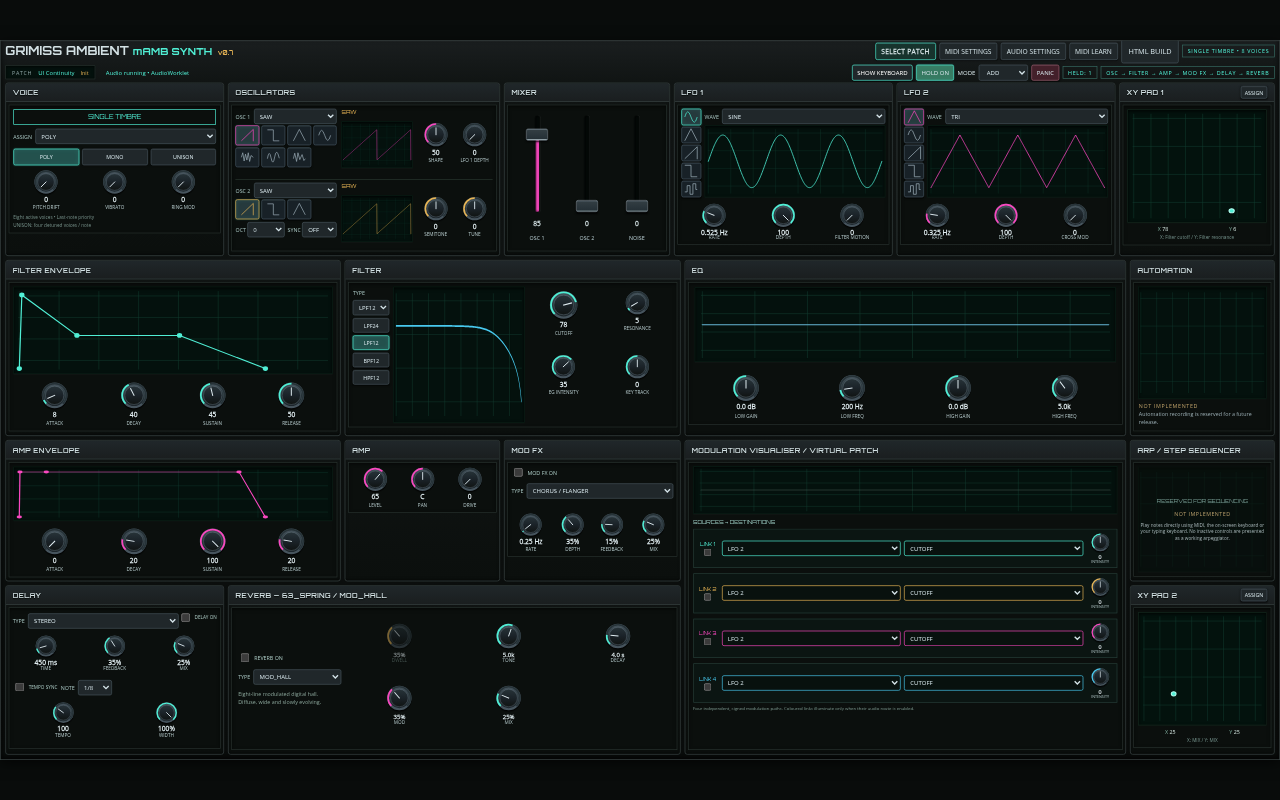
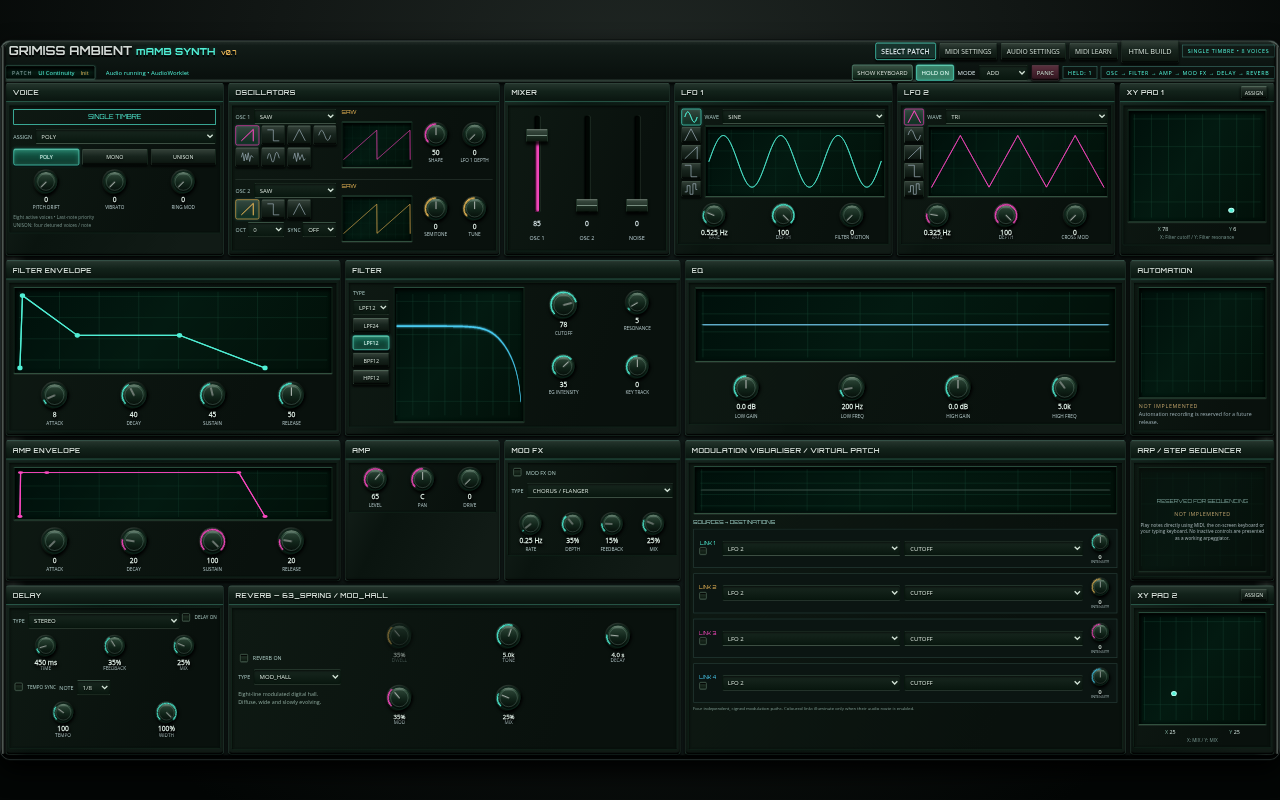
Validate hardware visual pass and publish private comparison build

diff --git a/GRIMISS_mAMB_Synth_v0_3_3_Filter_Fix.html b/GRIMISS_mAMB_Synth_v0_3_3_Filter_Fix.html
@@ -670,9 +670,9 @@ html.fit-screen main input[type=checkbox]{appearance:none;width:12px;height:12px
 html.fit-screen main input[type=checkbox]:checked{background:radial-gradient(#d7fff0,#50efd5 35%,#188f73);border-color:#62ebc7;box-shadow:0 0 5px #50efd577,inset 0 1px 2px #e8fff4}
 html.fit-screen main .fader input{width:9px;background:linear-gradient(to top,var(--accent) 0%,var(--accent) var(--fill),#020704 var(--fill),#020704 100%);border-color:#020704;box-shadow:inset 2px 0 3px #000,1px 0 0 #6c88704d}
 html.fit-screen main .fader input::-webkit-slider-thumb{height:20px;background:linear-gradient(#77847b,#36473c 12%,#27372d 48%,#8aa193 50%,#1a2b20 58%,#0c170f);border-color:#6c8172 #243c2c #040b06;box-shadow:0 4px 4px #000c,inset 0 1px 0 #c2d0c533;border-radius:2px}
-html.fit-screen main>.performance-panel{background:linear-gradient(#26382e,#07100a 12%,#0e1d13 85%,#020704);border-top:3px solid #637e6c;box-shadow:inset 0 3px 3px #000,0 -3px 0 #050a06,0 -4px 0 #405b4b}
+html.fit-screen main>.performance-panel{background:linear-gradient(#26382e,#07100a 12%,#0e1d13 85%,#020704);border-top:1px solid #637e6c;box-shadow:inset 0 3px 3px #000,0 -3px 0 #050a06,0 -4px 0 #405b4b}
 html.fit-screen main>.performance-panel h2{background:linear-gradient(#192b20,#0b1a11);color:#d7e7da;border-bottom-color:#142a1a}
-html.fit-screen main>.performance-panel>.inner{background:#030805;border:2px solid #172e1d;border-bottom-color:#526b56;box-shadow:inset 0 4px 8px #000,0 1px 0 #000}
+html.fit-screen main>.performance-panel>.inner{background:#030805;border:1px solid #172e1d;border-bottom-color:#526b56;box-shadow:inset 0 4px 8px #000,0 1px 0 #000}
 html.fit-screen main>.performance-panel .white{background:linear-gradient(90deg,#9da99c 0,#d6ddcf 3%,#f0f1e7 9%,#eef0e5 85%,#c4cdbf 96%,#82927f 100%);border:1px solid #465343;border-bottom:5px solid #9da891;border-radius:1px 1px 4px 4px;box-shadow:inset 0 6px 6px #0005,inset 0 -2px 1px #eef6e3,1px 1px 2px #000;position:relative;color:#5a6757}
 html.fit-screen main>.performance-panel .black{background:linear-gradient(90deg,#030704,#1e2922 12%,#0d1710 24%,#101c13 74%,#38463a 87%,#020603);border:1px solid #030704;border-top:2px solid #5c685d;border-bottom:5px solid #020503;border-radius:0 0 3px 3px;box-shadow:2px 5px 3px #000c,inset 0 -3px 0 #39463b;color:#8ea092}
 html.fit-screen main>.performance-panel .white.on{background:linear-gradient(90deg,#1b7964,#8bffe2 12%,#50efd5 85%,#258b70);border-bottom-color:#1d775b;box-shadow:inset 0 4px 7px #03201499,0 0 7px #50efd533}

diff --git a/dist/GRIMISS_mAMB_v0_7.html b/dist/GRIMISS_mAMB_v0_7.html
@@ -670,9 +670,9 @@ html.fit-screen main input[type=checkbox]{appearance:none;width:12px;height:12px
 html.fit-screen main input[type=checkbox]:checked{background:radial-gradient(#d7fff0,#50efd5 35%,#188f73);border-color:#62ebc7;box-shadow:0 0 5px #50efd577,inset 0 1px 2px #e8fff4}
 html.fit-screen main .fader input{width:9px;background:linear-gradient(to top,var(--accent) 0%,var(--accent) var(--fill),#020704 var(--fill),#020704 100%);border-color:#020704;box-shadow:inset 2px 0 3px #000,1px 0 0 #6c88704d}
 html.fit-screen main .fader input::-webkit-slider-thumb{height:20px;background:linear-gradient(#77847b,#36473c 12%,#27372d 48%,#8aa193 50%,#1a2b20 58%,#0c170f);border-color:#6c8172 #243c2c #040b06;box-shadow:0 4px 4px #000c,inset 0 1px 0 #c2d0c533;border-radius:2px}
-html.fit-screen main>.performance-panel{background:linear-gradient(#26382e,#07100a 12%,#0e1d13 85%,#020704);border-top:3px solid #637e6c;box-shadow:inset 0 3px 3px #000,0 -3px 0 #050a06,0 -4px 0 #405b4b}
+html.fit-screen main>.performance-panel{background:linear-gradient(#26382e,#07100a 12%,#0e1d13 85%,#020704);border-top:1px solid #637e6c;box-shadow:inset 0 3px 3px #000,0 -3px 0 #050a06,0 -4px 0 #405b4b}
 html.fit-screen main>.performance-panel h2{background:linear-gradient(#192b20,#0b1a11);color:#d7e7da;border-bottom-color:#142a1a}
-html.fit-screen main>.performance-panel>.inner{background:#030805;border:2px solid #172e1d;border-bottom-color:#526b56;box-shadow:inset 0 4px 8px #000,0 1px 0 #000}
+html.fit-screen main>.performance-panel>.inner{background:#030805;border:1px solid #172e1d;border-bottom-color:#526b56;box-shadow:inset 0 4px 8px #000,0 1px 0 #000}
 html.fit-screen main>.performance-panel .white{background:linear-gradient(90deg,#9da99c 0,#d6ddcf 3%,#f0f1e7 9%,#eef0e5 85%,#c4cdbf 96%,#82927f 100%);border:1px solid #465343;border-bottom:5px solid #9da891;border-radius:1px 1px 4px 4px;box-shadow:inset 0 6px 6px #0005,inset 0 -2px 1px #eef6e3,1px 1px 2px #000;position:relative;color:#5a6757}
 html.fit-screen main>.performance-panel .black{background:linear-gradient(90deg,#030704,#1e2922 12%,#0d1710 24%,#101c13 74%,#38463a 87%,#020603);border:1px solid #030704;border-top:2px solid #5c685d;border-bottom:5px solid #020503;border-radius:0 0 3px 3px;box-shadow:2px 5px 3px #000c,inset 0 -3px 0 #39463b;color:#8ea092}
 html.fit-screen main>.performance-panel .white.on{background:linear-gradient(90deg,#1b7964,#8bffe2 12%,#50efd5 85%,#258b70);border-bottom-color:#1d775b;box-shadow:inset 0 4px 7px #03201499,0 0 7px #50efd533}

diff --git a/src/hardware.css b/src/hardware.css
@@ -32,9 +32,9 @@ html.fit-screen main input[type=checkbox]{appearance:none;width:12px;height:12px
 html.fit-screen main input[type=checkbox]:checked{background:radial-gradient(#d7fff0,#50efd5 35%,#188f73);border-color:#62ebc7;box-shadow:0 0 5px #50efd577,inset 0 1px 2px #e8fff4}
 html.fit-screen main .fader input{width:9px;background:linear-gradient(to top,var(--accent) 0%,var(--accent) var(--fill),#020704 var(--fill),#020704 100%);border-color:#020704;box-shadow:inset 2px 0 3px #000,1px 0 0 #6c88704d}
 html.fit-screen main .fader input::-webkit-slider-thumb{height:20px;background:linear-gradient(#77847b,#36473c 12%,#27372d 48%,#8aa193 50%,#1a2b20 58%,#0c170f);border-color:#6c8172 #243c2c #040b06;box-shadow:0 4px 4px #000c,inset 0 1px 0 #c2d0c533;border-radius:2px}
-html.fit-screen main>.performance-panel{background:linear-gradient(#26382e,#07100a 12%,#0e1d13 85%,#020704);border-top:3px solid #637e6c;box-shadow:inset 0 3px 3px #000,0 -3px 0 #050a06,0 -4px 0 #405b4b}
+html.fit-screen main>.performance-panel{background:linear-gradient(#26382e,#07100a 12%,#0e1d13 85%,#020704);border-top:1px solid #637e6c;box-shadow:inset 0 3px 3px #000,0 -3px 0 #050a06,0 -4px 0 #405b4b}
 html.fit-screen main>.performance-panel h2{background:linear-gradient(#192b20,#0b1a11);color:#d7e7da;border-bottom-color:#142a1a}
-html.fit-screen main>.performance-panel>.inner{background:#030805;border:2px solid #172e1d;border-bottom-color:#526b56;box-shadow:inset 0 4px 8px #000,0 1px 0 #000}
+html.fit-screen main>.performance-panel>.inner{background:#030805;border:1px solid #172e1d;border-bottom-color:#526b56;box-shadow:inset 0 4px 8px #000,0 1px 0 #000}
 html.fit-screen main>.performance-panel .white{background:linear-gradient(90deg,#9da99c 0,#d6ddcf 3%,#f0f1e7 9%,#eef0e5 85%,#c4cdbf 96%,#82927f 100%);border:1px solid #465343;border-bottom:5px solid #9da891;border-radius:1px 1px 4px 4px;box-shadow:inset 0 6px 6px #0005,inset 0 -2px 1px #eef6e3,1px 1px 2px #000;position:relative;color:#5a6757}
 html.fit-screen main>.performance-panel .black{background:linear-gradient(90deg,#030704,#1e2922 12%,#0d1710 24%,#101c13 74%,#38463a 87%,#020603);border:1px solid #030704;border-top:2px solid #5c685d;border-bottom:5px solid #020503;border-radius:0 0 3px 3px;box-shadow:2px 5px 3px #000c,inset 0 -3px 0 #39463b;color:#8ea092}
 html.fit-screen main>.performance-panel .white.on{background:linear-gradient(90deg,#1b7964,#8bffe2 12%,#50efd5 85%,#258b70);border-bottom-color:#1d775b;box-shadow:inset 0 4px 7px #03201499,0 0 7px #50efd533}

diff --git a/reports/hardware-comparison.html b/reports/hardware-comparison.html
@@ -1,0 +1,1 @@
+<!doctype html><html lang="en"><meta charset="utf-8"><meta name="viewport" content="width=device-width,initial-scale=1"><title>GRIMISS mAMB hardware comparison</title><style>body{margin:0;background:#080e0b;color:#d6e4dc;font:16px system-ui}main{max-width:1800px;margin:auto;padding:24px}h1,a{color:#50efd5}p{max-width:1000px;line-height:1.6}section{margin:30px 0}img{width:100%;border:1px solid #435d4d;border-radius:8px}.pair{display:grid;grid-template-columns:1fr 1fr;gap:20px}h2{font-size:17px}@media(max-width:900px){.pair{grid-template-columns:1fr}}</style><main><h1>GRIMISS mAMB — hardware visual pass</h1><p>The supplied hardware mockup guided cabinet edges, recessed metal panels and screens, shaded control bodies, illuminated states and piano-key finishes. The working v0.7 build remains the functional authority: all 14 functional scripts and 156 control tags are unchanged.</p><div class="pair"><section><h2>Verified v0.7 baseline</h2><a href="hardware-before.png"><img src="hardware-before.png" alt="Baseline with keyboard visible"></a></section><section><h2>Hardware finish — same patch and viewport</h2><a href="hardware-visible.png"><img src="hardware-visible.png" alt="Hardware finish with keyboard visible"></a></section></div><section><h2>Expanded editor — keyboard hidden</h2><a href="hardware-hidden.png"><img src="hardware-hidden.png" alt="Expanded editor with keyboard hidden"></a></section><p>The complete displays, original note range and controls are retained. The material treatment follows the mockup while preserving the denser working layout. Additional wheels, voice counts and unsupported functions shown in the mockup were not introduced as decorative controls. ARP and automation remain labelled unimplemented. No physical MIDI hardware testing is claimed.</p><p><a href="../index.html">Play synthesizer</a> · <a href="../GRIMISS_mAMB_v0_7.html" download>Download HTML</a></p></main></html>

diff --git a/HARDWARE_VISUAL_PASS.md b/HARDWARE_VISUAL_PASS.md
@@ -1,0 +1,21 @@
+# Hardware-realism visual pass
+
+Continued on `codex/controller-workflow-v0.7` from verified checkpoint `2531bed10f8a0d943faf59e949a93a938c5f3cf0`. Image1 is the material/appearance target; Image2 and the existing code remain the functional authority.
+
+| Supplied mockup direction | Implemented treatment |
+| --- | --- |
+| Unified physical cabinet | Rounded dark-metal shell, bevelled end edges, header extrusion and grounded shadows |
+| Recessed sections | Shared panel rims, inset control wells and restrained highlights |
+| Physical rotary controls | Shared shaded SVG bodies, reflective rim, bright pointer and original teal/magenta/amber accents |
+| Faders and switches | Recessed tracks with retained coloured value fills, moulded caps, tactile button faces and truthful illuminated selection/on states |
+| Electronic displays | Recessed bezels, dark green glass, retained grid/trace colours and responsive data |
+| Piano keyboard | Shaded ivory faces, dark raised keys, front lips, contact shadows and retained active-note indication |
+| Typography | Existing embedded licensed fonts retained, engraved-style contrast and consistent headings |
+
+The result follows the mockup's cabinet and material treatment while preserving the denser working layout and all controls. It is not a pixel-identical reconstruction: the mockup shows additional wheels, a12-voice label and unsupported features. These were not substituted for the actual single-timbre/eight-voice architecture. The original playable C3–C5 range, all displays, independent XY pads, real draggable envelopes and expanded keyboard-hidden mode remain.
+
+`src/hardware.css` is the reusable visual layer; build.cjs embeds it into the same standalone HTML. Only the existing SVG paint gradients also changed. All14 functional script bodies and156 input/select/button tags—including identifiers, ranges and defaults—are byte-identical to the baseline. No audio/MIDI/patch/ownership/layout logic changed.
+
+Visual QA uses matched baseline/current1920×1080 screenshots plus both keyboard states at1920×1080,1600×900 and1280×800. Existing regressions cover Worklet/fallback audio, polyphony, oscillator/filter/envelope/effects/routes, XY/patch/MIDI/HOLD, touch simulation and keyboard continuity. A decorative border initially overflowed the keyboard panel; restoring its original dimensions fixed it. A waveform assertion now waits for the rendered selected state instead of an arbitrary35ms delay.
+
+See reports/hardware-comparison.html and tests/hardware-results.json. Real KeyLab25/Windows/tablet tests are unverified. ARP/automation stay visibly unimplemented. Actual live-host QA may remain blocked by the execution environment's destination policy; deployment success and local tests are reported separately in HOSTING.md.

diff --git a/DEVELOPMENT_LOG.md b/DEVELOPMENT_LOG.md
@@ -79,3 +79,11 @@ Integrated the final single-screen1920×1080 logical layout, exact existing pale
 Validation and publication evidence follow in TEST_RESULTS.md and HOSTING.md. Physical hardware/Windows/tablet performance and actual live-domain browser access are reported separately from software and native deployment checks.
 
 Final v0.7 regression: npm run test:all exited0 after correcting an ADSR test race (SVG redraw between locator acquisition and bounding-box measurement; now sampled atomically). Both browser audio backends, all six layouts, emulated touch,25registry groups,11workflow groups,90factory renders and mocked-device cancellation pass. Native private deployment succeeded; actual live-browser navigation remains proxy-blocked. Exact publication IDs/hash are in HOSTING.md. GitHub main remains433c2ab; v0.4 a0131ea remains remotely available.
+
+## 2026-11-03 — hardware-realism visual pass
+
+Continued from2531bed on the existing development branch. Read the new brief and compared Image1's physical construction with Image2's authoritative functional scope. Added shared src/hardware.css and revised the existing SVG paint gradients: dark-metal cabinet/end bevels, inset panels and screen glass, physical rotary bodies/pointers, recessed coloured fader tracks/caps, tactile/illuminated switches and shaded piano-key faces/front edges. Existing palette, labels, displays, control dimensions and bindings are retained. No mockup-only controls,12voice claim or DSP redesign was introduced.
+
+Added tests/fixtures/v0.7.html and exact functional parity checks:14inline script bodies and156input/select/button tags remain identical, including defaults/ranges. Browser tests now wait for the actual selected waveform state rather than35ms; a decorative keyboard border overflow was caught and corrected by restoring its original border dimensions. Six layout modes, both backends, emulated touch and11workflow groups pass on the correction. HARDWARE_VISUAL_PASS.md and reports/hardware-comparison.html describe appearance and deliberate functional differences from the mockup.
+
+Hardware pass final verification: complete npm run test:all exited0, including exact parity guard. Native private deployment appgdep_6aea3cc38a8081919e0376a0a5d54540 succeeded from verified Site-source76882c14f967ce62d7141145797322b645a7e8c3. Actual authorised browser navigation was retried and remains blocked by the environment proxy before reaching the page. Audience, GitHub visibility and main were not changed.

diff --git a/TEST_RESULTS.md b/TEST_RESULTS.md
@@ -1,3 +1,17 @@
+# Hardware-realism pass validation — 2026-11-03
+
+**Complete `npm run test:all`: PASS, exit0**, after correcting decorative keyboard-border overflow. All14 functional scripts and156 control tags are identical to the verified2531bed baseline; DSP/MIDI/patch/layout/ownership logic is unchanged. tests/hardware-results.json records this guard.
+
+Both audio backends pass; keyboard visible/hidden layouts fit1920×1080,1600×900 and1280×800 without main-page scrolling. All seven OSC1 choices, displays, graph enlargement, retained context/notes/HOLD and emulated touch pass. Eleven workflow groups cover actual envelopes, wheel/fine adjustment, patch/XY persistence and MIDI Learn. All25registry groups,90factory numerical renders, mocked device/capture cancellation checks and all prior DSP/effects/measurement/stability tests pass. Console errors: none.
+
+The first visual run caught an overflow from thicker decorative keyboard borders; original dimensions were restored, retaining depth through shadows. A pre-existing fixed35ms waveform redraw assertion was replaced by waiting for rendered selected state. No functional script was edited to resolve either issue.
+
+Matched baseline/current screenshots and comparison: reports/hardware-{before,visible,hidden}.png and reports/hardware-comparison.html. Detailed mockup comparison: HARDWARE_VISUAL_PASS.md. Current HTML SHA256: a6ae1741e7ea650269b0cbfda42cafbf680b37f9dfb1b2eb5cab5f4cca80c84d.
+
+Private publication succeeded. Actual live-domain browser navigation was retried after publication and remains proxy-blocked before reaching the page. Physical KeyLab25/Windows/tablet operation is unverified; ARP/automation remain unimplemented. These limits are separate from the passing local software checks.
+
+## Previous v0.7 checkpoint results
+
 # v0.7 validation — 2026-11-03
 
 Build: `npm run build`; canonical historical HTML is byte-identical to `dist/GRIMISS_mAMB_v0_7.html`. Manifest records the SHA256. Baseline v0.6 was revalidated before changes; retained reports are in work/v07 when workspace retained. src/synth.js and src/effects.js are unchanged from v0.6.

diff --git a/CONTINUE_CODEX.md b/CONTINUE_CODEX.md
@@ -6,6 +6,8 @@ Run `npm run build` and `npm run test:all` in a Chromium-capable environment. Th
 
 Architecture: one timbre/eight active voices, bounded steal tails, source ownership, two independent LFOs/four routes and one shared stereo effects chain. Preserve src/synth.js and effects algorithms unless a measured change is justified. Optional input monitoring is mixed before shared effects, defaults off/gain zero and stops on PANIC. AudioContext resumes synchronously on trusted first key/pointer gesture before asynchronous Worklet setup; never promise browser-policy-free autoplay or add a mandatory Start Audio button.
 
+Visual layer: src/hardware.css is embedded by build.cjs; src/interface.html supplies shared SVG paint gradients. tests/hardware.cjs compares all14 functional script bodies and156 control tags exactly with tests/fixtures/v0.7.html (2531bed). Do not change DSP to revise appearance. For a later explicitly functional release, deliberately update the parity baseline/guard after validating the authorised behavior change rather than deleting coverage. HARDWARE_VISUAL_PASS.md records the approved mockup comparison and retained functional scope.
+
 UI: 1920×1080 logical hardware panel, fit to viewport, body-sibling dialogs. Keyboard is visible by default; persisted hide state really grows graphs/controls without DSP/context reset. OSC1 buttons are4+3. Ninety continuously numbered factory patches,9×10banks; USER edits via SELECT PATCH. Patch schema v3 contains XY; legacy versions remain supported. MIDI profiles are separate, versioned and source/channel-scoped. Original Arturia KeyLab25 has no pad grid. Never invent unknown factory CCs or call synthetic activity hardware verification. Read KEYLAB25_MIDI_MAP.md.
 
 Retained storage: grimiss-mamb-user-patches-v2, grimiss-mamb-midi-map-v1, grimiss.mamb.layout.v1, grimiss.mamb.xy.v1, grimiss.mamb.selected-patch.v1, grimiss.mamb.midi-devices.v1. Do not rename/remove without migration. MIDI map standalone and app use the same registry and storage events.

diff --git a/HOSTING.md b/HOSTING.md
@@ -1,3 +1,20 @@
+# Current hardware-realism publication
+
+Playable URL: https://grimiss-mamb-synth-v05.bubbly-ray-9560.chatgpt.site
+
+Existing owner-private audience retained. Publication terminal status: **succeeded**.
+
+- Site-source commit:76882c14f967ce62d7141145797322b645a7e8c3.
+- Deployment:appgdep_6aea3cc38a8081919e0376a0a5d54540.
+- Saved version:appgprj_6ae9ad1b7aa08191846efb701d49414c~appgver_e270f6fe66e881919ae8acc77b5d7d2d.
+- Exact tested HTML SHA256:a6ae1741e7ea650269b0cbfda42cafbf680b37f9dfb1b2eb5cab5f4cca80c84d.
+- `/reports/hardware-comparison.html` shows matched before/after and keyboard-hidden screenshots.
+- `/GRIMISS_mAMB_v0_7.html` remains the standalone build; HTML BUILD downloads it.
+
+The complete software suite passed on this exact application HTML before native private publication. The live browser check was repeated afterwards using the existing authorised credential only for this Site and failed at proxy connection (`ERR_TUNNEL_CONNECTION_FAILED`). No page was reached; live audio/UI verification is therefore still blocked, not passed. See reports/live-verification.json. No token was persisted or printed. The environment still needs the exact Site hostname allowed in its HTTP destination configuration; do not bypass the proxy or change audience to diagnose it.
+
+## Previous publication records
+
 # mAMB v0.7 private online delivery
 
 Playable address: https://grimiss-mamb-synth-v05.bubbly-ray-9560.chatgpt.site

diff --git a/README.md b/README.md
@@ -6,6 +6,8 @@
 
 Both keyboard modes fit 1920×1080 and1600×900; scaled tablet browser layouts are tested separately from physical hardware. Factory and user patch serialization remains internal; permanent category/import/export controls were removed from the main surface. KeyLab25 physical CC verification remains pending; unknown controllers are deliberately unassigned. See [controller documentation](KEYLAB25_MIDI_MAP.md) and [standalone map](KEYLAB25_CONTROL_MAP.html).
 
+The hardware-realism pass adds a shared dark-metal cabinet, recessed screens and panels, shaded knobs/faders, illuminated switches and physical piano-key finishes. Existing functionality and parameter ranges are preserved exactly. [Visual comparison](reports/hardware-comparison.html) · [Implementation notes](HARDWARE_VISUAL_PASS.md).
+
 ## Instrument
 
 Single timbre, eight active voices, original PolyBLEP-style oscillators, four TPT filter modes, envelopes, two independent LFOs and four audible virtual-patch routes. MIDI devices/channels, pointers and typing keys own independent gates and controllers. HOLD ADD/REPLACE, last-note MONO/UNISON priority and PANIC retain the v0.5 behaviour. The same DSP factories run in AudioWorklet, ScriptProcessor fallback and offline tests.

diff --git a/ROADMAP.md b/ROADMAP.md
@@ -1,5 +1,12 @@
 # Roadmap — v0.7
 
+## Completed hardware-realism pass
+
+- [x] Reusable physical cabinet/panel/control/screen/keyboard finish layer.
+- [x] Exact14-script/156-control parity with the verified v0.7 baseline.
+- [x] Matched before/after and keyboard-hidden comparison screenshots; retained original accents and all controls.
+- [x] Observed keyboard-border overflow fixed without shrinking controls.
+
 ## Completed v0.7
 
 - [x] Retained v0.6 synth/effects, eight-voice architecture and dry compatibility.
